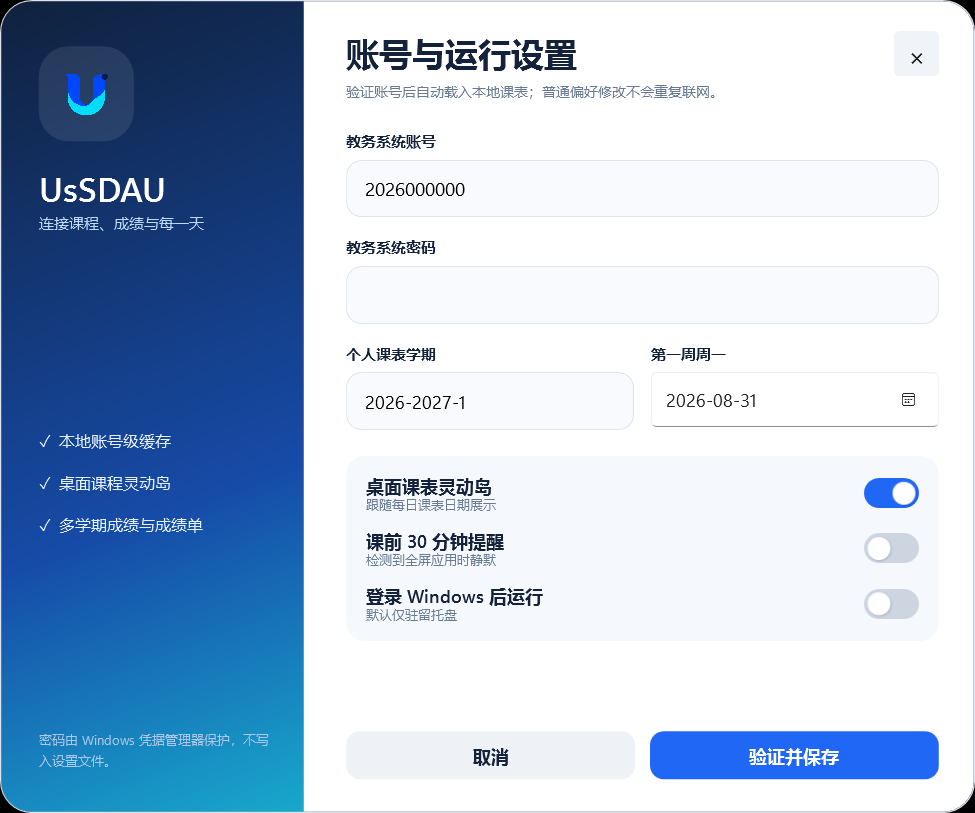
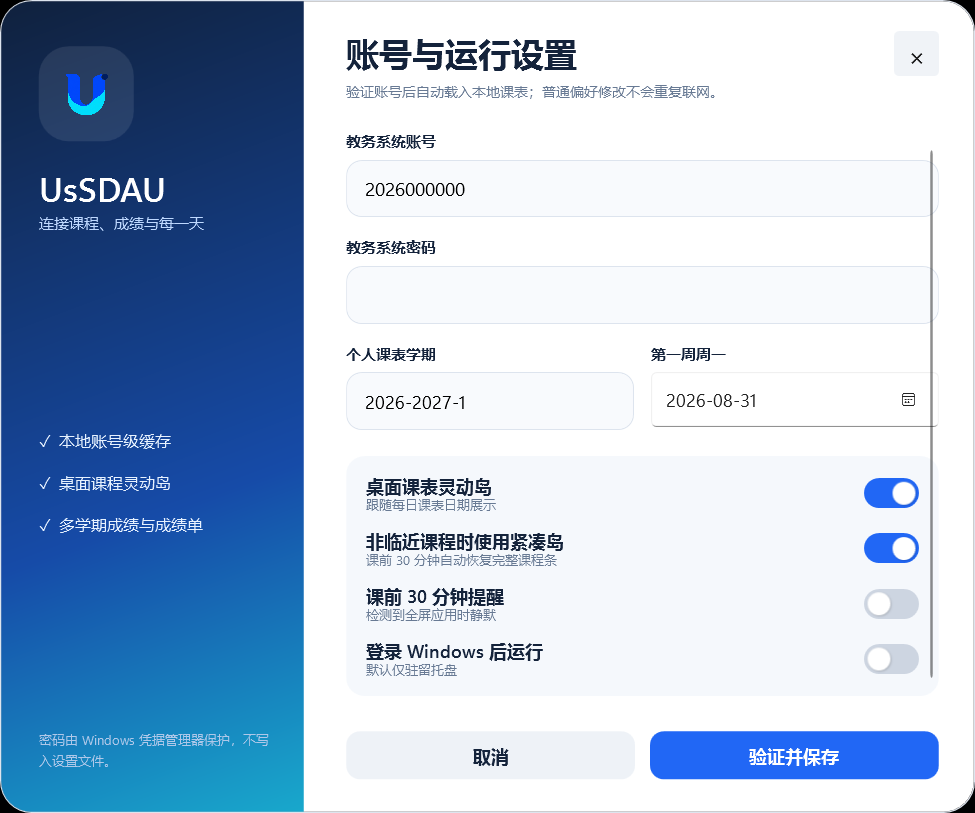
feat: refine score details and adaptive island

Changed region(s): [[0.3692, 0.6458, 0.5846, 0.8303], [0.8615, 0.7688, 0.9538, 0.8303], [0.8923, 0.6458, 0.9538, 0.7073]]

diff --git a/Windows/ScoreDetailWindow.xaml b/Windows/ScoreDetailWindow.xaml
@@ -1,28 +1,74 @@
 <Window x:Class="UsSDAU.Windows.ScoreDetailWindow"
         xmlns="http://schemas.microsoft.com/winfx/2006/xaml/presentation"
         xmlns:x="http://schemas.microsoft.com/winfx/2006/xaml"
-        Title="成绩详情" Icon="/Assets/UsSDAU-icon-v2.ico" Width="470" Height="430" WindowStartupLocation="CenterOwner"
-        ResizeMode="NoResize" Background="#F3F6FB">
-    <Grid Margin="24">
-        <Grid.RowDefinitions><RowDefinition Height="Auto"/><RowDefinition/><RowDefinition Height="Auto"/></Grid.RowDefinitions>
-        <StackPanel>
-            <TextBlock x:Name="CourseText" FontSize="23" FontWeight="Bold" TextWrapping="Wrap"/>
-            <TextBlock x:Name="MetaText" Foreground="{StaticResource MutedBrush}" Margin="0,6,0,0"/>
-        </StackPanel>
-        <Border Grid.Row="1" Background="White" CornerRadius="22" Padding="22" Margin="0,20,0,18">
-            <Grid>
-                <Grid.RowDefinitions><RowDefinition/><RowDefinition/><RowDefinition/></Grid.RowDefinitions>
-                <Grid.ColumnDefinitions><ColumnDefinition/><ColumnDefinition Width="Auto"/></Grid.ColumnDefinitions>
-                <StackPanel VerticalAlignment="Center"><TextBlock Text="平时成绩" Foreground="{StaticResource MutedBrush}"/><TextBlock x:Name="UsualText" FontSize="25" FontWeight="Bold" Margin="0,4,0,0"/></StackPanel>
-                <TextBlock x:Name="UsualRatioText" Grid.Column="1" VerticalAlignment="Center" Foreground="#1677FF" FontSize="16"/>
-                <Rectangle Grid.Row="1" Grid.ColumnSpan="2" Height="1" Fill="#E8ECF2" VerticalAlignment="Top"/>
-                <StackPanel Grid.Row="1" VerticalAlignment="Center"><TextBlock Text="期末成绩" Foreground="{StaticResource MutedBrush}"/><TextBlock x:Name="FinalText" FontSize="25" FontWeight="Bold" Margin="0,4,0,0"/></StackPanel>
-                <TextBlock x:Name="FinalRatioText" Grid.Row="1" Grid.Column="1" VerticalAlignment="Center" Foreground="#1677FF" FontSize="16"/>
-                <Border Grid.Row="2" Grid.ColumnSpan="2" Background="#EAF3FF" CornerRadius="16" Padding="15" VerticalAlignment="Center">
-                    <Grid><TextBlock Text="总成绩" FontWeight="SemiBold" VerticalAlignment="Center"/><TextBlock x:Name="TotalText" HorizontalAlignment="Right" FontSize="30" FontWeight="Bold" Foreground="#1677FF"/></Grid>
+        Title="成绩详情" Icon="/Assets/UsSDAU-icon-v2.ico" Width="650" Height="560"
+        WindowStartupLocation="CenterOwner" ResizeMode="NoResize" WindowStyle="None"
+        AllowsTransparency="True" Background="Transparent" MouseLeftButtonDown="Window_MouseLeftButtonDown">
+    <Window.Resources>
+        <Style x:Key="ScoreProgress" TargetType="ProgressBar">
+            <Setter Property="Height" Value="8"/><Setter Property="Maximum" Value="100"/>
+            <Setter Property="Background" Value="#E3E9F3"/><Setter Property="Foreground" Value="#2167F5"/>
+            <Setter Property="Template"><Setter.Value><ControlTemplate TargetType="ProgressBar">
+                <Border Background="{TemplateBinding Background}" CornerRadius="4">
+                    <Grid x:Name="PART_Track"><Border x:Name="PART_Indicator" Background="{TemplateBinding Foreground}" CornerRadius="4" HorizontalAlignment="Left"/></Grid>
                 </Border>
+            </ControlTemplate></Setter.Value></Setter>
+        </Style>
+    </Window.Resources>
+    <Border CornerRadius="24" Background="White" BorderBrush="#DCE3ED" BorderThickness="1">
+        <Border.Effect><DropShadowEffect Color="#10213D" BlurRadius="32" ShadowDepth="9" Opacity="0.23"/></Border.Effect>
+        <Grid>
+            <Grid.RowDefinitions><RowDefinition Height="54"/><RowDefinition/></Grid.RowDefinitions>
+            <Grid Margin="22,0,14,0">
+                <Grid.ColumnDefinitions><ColumnDefinition/><ColumnDefinition Width="Auto"/></Grid.ColumnDefinitions>
+                <StackPanel Orientation="Horizontal" VerticalAlignment="Center">
+                    <Border Width="30" Height="30" CornerRadius="10" Background="#EDF3FF"><Image Source="/Assets/UsSDAU-logo-square-v2.png" Margin="4"/></Border>
+                    <TextBlock Text="成绩构成" FontSize="13" FontWeight="SemiBold" VerticalAlignment="Center" Margin="10,0,0,0"/>
+                </StackPanel>
+                <Button Grid.Column="1" Width="36" Height="36" Content="×" FontSize="20" Background="#F0F3F7" BorderThickness="0" Cursor="Hand" Click="Close_Click"/>
             </Grid>
-        </Border>
-        <Button Grid.Row="2" Content="关闭" Style="{StaticResource PrimaryButton}" Click="Close_Click"/>
-    </Grid>
+
+            <Grid Grid.Row="1" Margin="30,10,30,28">
+                <Grid.RowDefinitions><RowDefinition Height="Auto"/><RowDefinition Height="*"/><RowDefinition Height="Auto"/><RowDefinition Height="Auto"/></Grid.RowDefinitions>
+                <Border CornerRadius="19" Background="#F5F8FD" BorderBrush="#E2E8F2" BorderThickness="1" Padding="22">
+                    <Grid>
+                        <Grid.ColumnDefinitions><ColumnDefinition/><ColumnDefinition Width="104"/></Grid.ColumnDefinitions>
+                        <StackPanel VerticalAlignment="Center">
+                            <TextBlock x:Name="CourseText" FontSize="25" FontWeight="SemiBold" TextWrapping="Wrap"/>
+                            <TextBlock x:Name="MetaText" Foreground="{StaticResource MutedBrush}" Margin="0,8,0,0" FontFamily="Times New Roman, Microsoft YaHei UI"/>
+                            <TextBlock Text="点击成绩时从教务系统实时读取构成" Foreground="#93A0B3" FontSize="10" Margin="0,12,0,0"/>
+                        </StackPanel>
+                        <Border Grid.Column="1" Width="86" Height="86" CornerRadius="28" Background="#E6F0FF" HorizontalAlignment="Right" VerticalAlignment="Center">
+                            <StackPanel VerticalAlignment="Center"><TextBlock Text="总成绩" Foreground="#657892" FontSize="10" HorizontalAlignment="Center"/><TextBlock x:Name="TotalText" FontSize="29" FontWeight="Bold" Foreground="#2167F5" HorizontalAlignment="Center" Margin="0,2,0,0"/></StackPanel>
+                        </Border>
+                    </Grid>
+                </Border>
+
+                <Grid Grid.Row="1" Margin="0,18,0,14">
+                    <Grid.ColumnDefinitions><ColumnDefinition/><ColumnDefinition Width="14"/><ColumnDefinition/></Grid.ColumnDefinitions>
+                    <Border CornerRadius="18" Background="White" BorderBrush="#E1E7F0" BorderThickness="1" Padding="20">
+                        <StackPanel>
+                            <Grid><TextBlock Text="平时表现" FontSize="15" FontWeight="SemiBold"/><Border HorizontalAlignment="Right" Background="#EDF4FF" CornerRadius="10" Padding="9,4"><TextBlock x:Name="UsualRatioText" Foreground="#2167F5" FontSize="11"/></Border></Grid>
+                            <TextBlock x:Name="UsualText" FontFamily="Times New Roman" FontSize="32" FontWeight="Bold" Margin="0,18,0,10"/>
+                            <ProgressBar x:Name="UsualProgress" Style="{StaticResource ScoreProgress}"/>
+                            <TextBlock x:Name="UsualContributionText" Foreground="{StaticResource MutedBrush}" FontSize="10" Margin="0,12,0,0"/>
+                        </StackPanel>
+                    </Border>
+                    <Border Grid.Column="2" CornerRadius="18" Background="White" BorderBrush="#E1E7F0" BorderThickness="1" Padding="20">
+                        <StackPanel>
+                            <Grid><TextBlock Text="期末考核" FontSize="15" FontWeight="SemiBold"/><Border HorizontalAlignment="Right" Background="#EEF8F5" CornerRadius="10" Padding="9,4"><TextBlock x:Name="FinalRatioText" Foreground="#15815A" FontSize="11"/></Border></Grid>
+                            <TextBlock x:Name="FinalText" FontFamily="Times New Roman" FontSize="32" FontWeight="Bold" Margin="0,18,0,10"/>
+                            <ProgressBar x:Name="FinalProgress" Style="{StaticResource ScoreProgress}" Foreground="#16A273"/>
+                            <TextBlock x:Name="FinalContributionText" Foreground="{StaticResource MutedBrush}" FontSize="10" Margin="0,12,0,0"/>
+                        </StackPanel>
+                    </Border>
+                </Grid>
+
+                <Border Grid.Row="2" Background="#F3F6FA" CornerRadius="13" Padding="15,11">
+                    <Grid><TextBlock Text="加权计算" FontWeight="SemiBold" Foreground="#52647D"/><TextBlock x:Name="FormulaText" HorizontalAlignment="Right" FontFamily="Times New Roman" FontSize="12" Foreground="#52647D"/></Grid>
+                </Border>
+                <Button Grid.Row="3" Content="完成" Style="{StaticResource PrimaryButton}" Click="Close_Click" Margin="0,17,0,0"/>
+            </Grid>
+        </Grid>
+    </Border>
 </Window>

diff --git a/Windows/SettingsWindow.xaml b/Windows/SettingsWindow.xaml
@@ -89,6 +89,7 @@
                         <Border Background="#F5F8FC" CornerRadius="15" Padding="16,10" Margin="0,21,0,0">
                             <StackPanel>
                                 <Grid Margin="0,4"><Grid.ColumnDefinitions><ColumnDefinition/><ColumnDefinition Width="Auto"/></Grid.ColumnDefinitions><StackPanel><TextBlock Text="桌面课表灵动岛" FontWeight="SemiBold"/><TextBlock Text="跟随每日课表日期展示" Foreground="{StaticResource MutedBrush}" FontSize="10"/></StackPanel><CheckBox x:Name="IslandCheck" Grid.Column="1" Style="{StaticResource Switch}"/></Grid>
+                                <Grid Margin="0,9,0,4"><Grid.ColumnDefinitions><ColumnDefinition/><ColumnDefinition Width="Auto"/></Grid.ColumnDefinitions><StackPanel><TextBlock Text="非临近课程时使用紧凑岛" FontWeight="SemiBold"/><TextBlock Text="课前 30 分钟自动恢复完整课程条" Foreground="{StaticResource MutedBrush}" FontSize="10"/></StackPanel><CheckBox x:Name="CompactIslandCheck" Grid.Column="1" Style="{StaticResource Switch}"/></Grid>
                                 <Grid Margin="0,9,0,4"><Grid.ColumnDefinitions><ColumnDefinition/><ColumnDefinition Width="Auto"/></Grid.ColumnDefinitions><StackPanel><TextBlock Text="课前 30 分钟提醒" FontWeight="SemiBold"/><TextBlock Text="检测到全屏应用时静默" Foreground="{StaticResource MutedBrush}" FontSize="10"/></StackPanel><CheckBox x:Name="ReminderCheck" Grid.Column="1" Style="{StaticResource Switch}"/></Grid>
                                 <Grid Margin="0,9,0,4"><Grid.ColumnDefinitions><ColumnDefinition/><ColumnDefinition Width="Auto"/></Grid.ColumnDefinitions><StackPanel><TextBlock Text="登录 Windows 后运行" FontWeight="SemiBold"/><TextBlock Text="默认仅驻留托盘" Foreground="{StaticResource MutedBrush}" FontSize="10"/></StackPanel><CheckBox x:Name="StartupCheck" Grid.Column="1" Style="{StaticResource Switch}"/></Grid>
                             </StackPanel>

diff --git a/Windows/IslandWindow.xaml b/Windows/IslandWindow.xaml
@@ -6,13 +6,13 @@
     <Border x:Name="Shell" Margin="8" CornerRadius="28" Background="#E8171D2B" BorderBrush="#35FFFFFF" BorderThickness="1">
         <Border.Effect><DropShadowEffect BlurRadius="26" ShadowDepth="6" Opacity="0.28"/></Border.Effect>
         <Grid Margin="22,11">
-            <Grid.ColumnDefinitions><ColumnDefinition Width="210"/><ColumnDefinition Width="1"/><ColumnDefinition/></Grid.ColumnDefinitions>
+            <Grid.ColumnDefinitions><ColumnDefinition Width="210"/><ColumnDefinition Width="1"/><ColumnDefinition x:Name="ScheduleColumn"/></Grid.ColumnDefinitions>
             <StackPanel VerticalAlignment="Center">
                 <TextBlock x:Name="StateText" Text="今天的课表" Foreground="#AFC3DD" FontSize="11" FontWeight="SemiBold"/>
                 <TextBlock x:Name="PrimaryText" Text="暂无课程" Foreground="White" FontSize="19" FontWeight="Bold" TextTrimming="CharacterEllipsis"/>
                 <TextBlock x:Name="SecondaryText" Text="UsSDAU 正在托盘运行" Foreground="#B7C2D4" FontSize="11" Margin="0,2,0,0"/>
             </StackPanel>
-            <Border Grid.Column="1" Background="#33FFFFFF" Margin="0,5"/>
+            <Border x:Name="Divider" Grid.Column="1" Background="#33FFFFFF" Margin="0,5"/>
             <ItemsControl x:Name="DayStrip" Grid.Column="2" Margin="18,0,0,0" VerticalAlignment="Center">
                 <ItemsControl.ItemsPanel><ItemsPanelTemplate><StackPanel Orientation="Horizontal"/></ItemsPanelTemplate></ItemsControl.ItemsPanel>
             </ItemsControl>

diff --git a/Windows/IslandWindow.xaml.cs b/Windows/IslandWindow.xaml.cs
@@ -11,12 +11,15 @@ namespace UsSDAU.Windows;
 
 public partial class IslandWindow : Window
 {
+    private const double FullIslandWidth = 760;
+    private const double CompactIslandWidth = 286;
     private readonly AppController _controller;
     private readonly DispatcherTimer _timer = new() { Interval = TimeSpan.FromSeconds(15) };
     private readonly DispatcherTimer _collapseTimer = new() { Interval = TimeSpan.FromSeconds(8) };
     private string? _lastReminderKey;
     private string? _stateKey;
     private bool _collapsed;
+    private bool _compactMode;
     private bool _closingForExit;
 
     public IslandWindow(AppController controller)
@@ -48,6 +51,7 @@ public partial class IslandWindow : Window
         var current = isToday ? today.FirstOrDefault(x => now >= x.Start && now <= x.End) : null;
         var next = isToday ? today.FirstOrDefault(x => x.Start > now) : today.FirstOrDefault();
         var imminent = isToday && next is not null && next.Start - now <= TimeSpan.FromMinutes(30);
+        ApplyWidthMode(_controller.Settings.CompactIslandUntilImminent && !imminent);
 
         Shell.Background = imminent
             ? new LinearGradientBrush(Color.FromArgb(244, 16, 91, 214), Color.FromArgb(244, 22, 132, 255), 0)
@@ -173,6 +177,37 @@ public partial class IslandWindow : Window
         };
         animation.Completed += (_, _) => { BeginAnimation(TopProperty, null); Top = target; };
         BeginAnimation(TopProperty, animation);
+    }
+
+    private void ApplyWidthMode(bool compact)
+    {
+        if (_compactMode == compact && Math.Abs(Width - (compact ? CompactIslandWidth : FullIslandWidth)) < 1) return;
+        _compactMode = compact;
+        var targetWidth = compact ? CompactIslandWidth : FullIslandWidth;
+        var targetLeft = SystemParameters.WorkArea.Left + (SystemParameters.WorkArea.Width - targetWidth) / 2;
+
+        if (!compact)
+        {
+            ScheduleColumn.Width = new GridLength(1, GridUnitType.Star);
+            Divider.Visibility = Visibility.Visible;
+            DayStrip.Visibility = Visibility.Visible;
+        }
+        else
+        {
+            ScheduleColumn.Width = new GridLength(0);
+            Divider.Visibility = Visibility.Collapsed;
+            DayStrip.Visibility = Visibility.Collapsed;
+        }
+
+        BeginAnimation(WidthProperty, null);
+        BeginAnimation(LeftProperty, null);
+        var easing = new CubicEase { EasingMode = EasingMode.EaseOut };
+        var widthAnimation = new DoubleAnimation(Width, targetWidth, TimeSpan.FromMilliseconds(300)) { EasingFunction = easing, FillBehavior = FillBehavior.Stop };
+        var leftAnimation = new DoubleAnimation(Left, targetLeft, TimeSpan.FromMilliseconds(300)) { EasingFunction = easing, FillBehavior = FillBehavior.Stop };
+        widthAnimation.Completed += (_, _) => { BeginAnimation(WidthProperty, null); Width = targetWidth; };
+        leftAnimation.Completed += (_, _) => { BeginAnimation(LeftProperty, null); Left = targetLeft; };
+        BeginAnimation(WidthProperty, widthAnimation);
+        BeginAnimation(LeftProperty, leftAnimation);
     }
 
     private void MakeNonActivating()

diff --git a/Services/TranscriptPdfService.cs b/Services/TranscriptPdfService.cs
@@ -116,12 +116,16 @@ public sealed class TranscriptPdfService(TranscriptVerificationService verificat
         gfx.DrawLine(new XPen(navy, 1.8), margin + 90, 278, width - margin - 90, 278);
 
         var infoY = 315d;
-        gfx.DrawRectangle(new XSolidBrush(XColor.FromArgb(247, 248, 250)), margin + 34, infoY, contentWidth - 68, 118);
-        gfx.DrawRectangle(new XPen(XColor.FromArgb(190, 197, 207), .7), margin + 34, infoY, contentWidth - 68, 118);
-        DrawCoverInfo(gfx, "姓名 / NAME", profile?.Name ?? "-", margin + 58, infoY + 22, 190, simHei, simSun);
-        DrawCoverInfo(gfx, "学号 / ID", settings.Account, margin + 288, infoY + 22, 170, simHei, times);
-        DrawCoverInfo(gfx, "学业范围 / PERIOD", $"{results.First().Term} - {results.Last().Term}", margin + 58, infoY + 69, 260, simHei, times);
-        DrawCoverInfo(gfx, "制表日期 / DATE", DateTime.Today.ToString("yyyy-MM-dd"), margin + 338, infoY + 69, 120, simHei, times);
+        var infoX = margin + 34;
+        var infoWidth = contentWidth - 68;
+        var infoCellWidth = (infoWidth - 68) / 2;
+        var infoRightX = infoX + infoWidth / 2 + 10;
+        gfx.DrawRectangle(new XSolidBrush(XColor.FromArgb(247, 248, 250)), infoX, infoY, infoWidth, 118);
+        gfx.DrawRectangle(new XPen(XColor.FromArgb(190, 197, 207), .7), infoX, infoY, infoWidth, 118);
+        DrawCoverInfo(gfx, "姓名 / NAME", profile?.Name ?? "-", infoX + 22, infoY + 15, infoCellWidth, simHei, simSun);
+        DrawCoverInfo(gfx, "学号 / ID", settings.Account, infoRightX, infoY + 15, infoCellWidth, simHei, times);
+        DrawCoverInfo(gfx, "学业范围 / PERIOD", $"{results.First().Term} - {results.Last().Term}", infoX + 22, infoY + 65, infoCellWidth, simHei, times);
+        DrawCoverInfo(gfx, "制表日期 / DATE", DateTime.Today.ToString("yyyy-MM-dd"), infoRightX, infoY + 65, infoCellWidth, simHei, times);
 
         DrawSummary(gfx, margin + 34, 474, contentWidth - 68, results.Count, aggregate.Records.Count, aggregate, simHei, timesBold);
 
@@ -223,8 +227,8 @@ public sealed class TranscriptPdfService(TranscriptVerificationService verificat
 
     private static void DrawCoverInfo(XGraphics gfx, string label, string value, double x, double y, double width, XFont labelFont, XFont valueFont)
     {
-        gfx.DrawString(label, labelFont, XBrushes.Black, new XRect(x, y, 104, 16), XStringFormats.TopLeft);
-        gfx.DrawString(value, valueFont, XBrushes.Black, new XRect(x + 108, y, width - 108, 18), XStringFormats.TopLeft);
+        gfx.DrawString(label, labelFont, XBrushes.Black, new XRect(x, y, width, 15), XStringFormats.TopLeft);
+        gfx.DrawString(FitText(gfx, value, valueFont, width), valueFont, XBrushes.Black, new XRect(x, y + 20, width, 18), XStringFormats.TopLeft);
     }
 
     private static void DrawSummary(XGraphics gfx, double x, double y, double width, int termCount, int courseCount, ScoreResult result, XFont label, XFont value)

diff --git a/Windows/ScoreDetailWindow.xaml.cs b/Windows/ScoreDetailWindow.xaml.cs
@@ -1,4 +1,7 @@
+using System.Globalization;
 using System.Windows;
+using System.Windows.Input;
+using System.Windows.Media;
 using UsSDAU.Models;
 
 namespace UsSDAU.Windows;
@@ -11,11 +14,29 @@ public partial class ScoreDetailWindow : Window
         CourseText.Text = score.CourseName;
         MetaText.Text = $"{score.CourseCode}  ·  {score.Credit} 学分  ·  GPA {score.Gpa}";
         UsualText.Text = detail.UsualScore;
-        UsualRatioText.Text = $"占比 {detail.UsualRatio}%";
         FinalText.Text = detail.FinalScore;
-        FinalRatioText.Text = $"占比 {detail.FinalRatio}%";
         TotalText.Text = detail.TotalScore;
+
+        var usualScore = Numeric(detail.UsualScore);
+        var finalScore = Numeric(detail.FinalScore);
+        var usualRatio = Numeric(detail.UsualRatio);
+        var finalRatio = Numeric(detail.FinalRatio);
+        UsualProgress.Value = usualScore;
+        FinalProgress.Value = finalScore;
+        UsualRatioText.Text = $"权重 {detail.UsualRatio}%";
+        FinalRatioText.Text = $"权重 {detail.FinalRatio}%";
+        UsualContributionText.Text = $"计入总成绩 {Contribution(usualScore, usualRatio):0.##} 分";
+        FinalContributionText.Text = $"计入总成绩 {Contribution(finalScore, finalRatio):0.##} 分";
+        FormulaText.Text = $"{detail.UsualScore} × {detail.UsualRatio}%  +  {detail.FinalScore} × {detail.FinalRatio}%  =  {detail.TotalScore}";
+
+        if (Numeric(detail.TotalScore) < 60)
+        {
+            TotalText.Foreground = new SolidColorBrush((Color)ColorConverter.ConvertFromString("#C43D3D"));
+        }
     }
 
+    private static double Numeric(string value) => double.TryParse(value.Trim().TrimEnd('%'), NumberStyles.Any, CultureInfo.InvariantCulture, out var number) ? number : 0;
+    private static double Contribution(double score, double ratio) => score * ratio / 100d;
     private void Close_Click(object sender, RoutedEventArgs e) => Close();
+    private void Window_MouseLeftButtonDown(object sender, MouseButtonEventArgs e) { if (e.ButtonState == MouseButtonState.Pressed) DragMove(); }
 }

diff --git a/Windows/SettingsWindow.xaml.cs b/Windows/SettingsWindow.xaml.cs
@@ -22,6 +22,7 @@ public partial class SettingsWindow : Window
         TermBox.Text = controller.Settings.Term;
         StartDatePicker.SelectedDate = controller.Settings.TermStartDate;
         IslandCheck.IsChecked = controller.Settings.IslandEnabled;
+        CompactIslandCheck.IsChecked = controller.Settings.CompactIslandUntilImminent;
         ReminderCheck.IsChecked = controller.Settings.ReminderEnabled;
         StartupCheck.IsChecked = controller.Settings.StartWithWindows;
     }
@@ -56,6 +57,7 @@ public partial class SettingsWindow : Window
                 ScoreTerm = _controller.Settings.ScoreTerm,
                 TermStartDate = StartDatePicker.SelectedDate?.Date ?? TermPolicy.InferTermStart(term),
                 IslandEnabled = IslandCheck.IsChecked == true,
+                CompactIslandUntilImminent = CompactIslandCheck.IsChecked == true,
                 ReminderEnabled = ReminderCheck.IsChecked == true,
                 StartWithWindows = StartupCheck.IsChecked == true
             };

diff --git a/Models/AcademicModels.cs b/Models/AcademicModels.cs
@@ -11,6 +11,7 @@ public sealed record AcademicSettings
     public DateTime TermStartDate { get; init; } = TermPolicy.InferTermStart(TermPolicy.InferCurrentTerm());
     public bool StartWithWindows { get; init; }
     public bool IslandEnabled { get; init; } = true;
+    public bool CompactIslandUntilImminent { get; init; } = true;
     public bool ReminderEnabled { get; init; } = true;
 }
 
